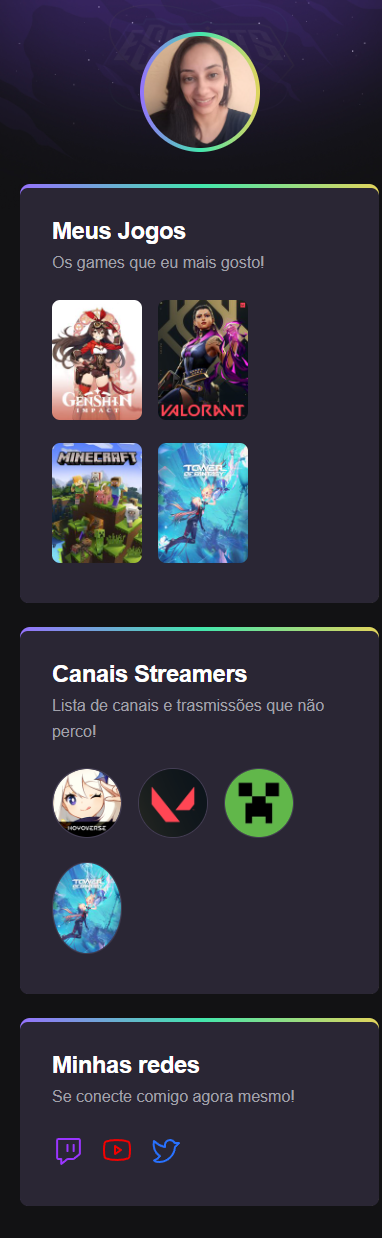
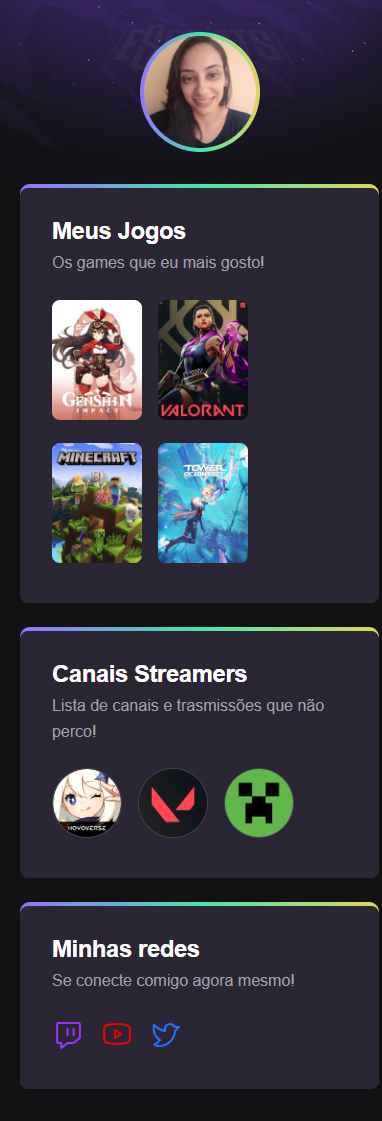
create readme

diff --git a/index.html b/index.html
@@ -98,13 +98,6 @@
                             </a>
                         </li>
 
-                        <li> 
-                            <a 
-                            target="_blank"
-                            href="https://www.twitch.tv/directory/game/Tower%20of%20Fantasy">
-                                <img src="https://static-cdn.jtvnw.net/ttv-boxart/1833197007_IGDB-144x192.jpg" alt="Imagem Fantasy">
-                            </a>
-                        </li>
 
                     </ul>
 
